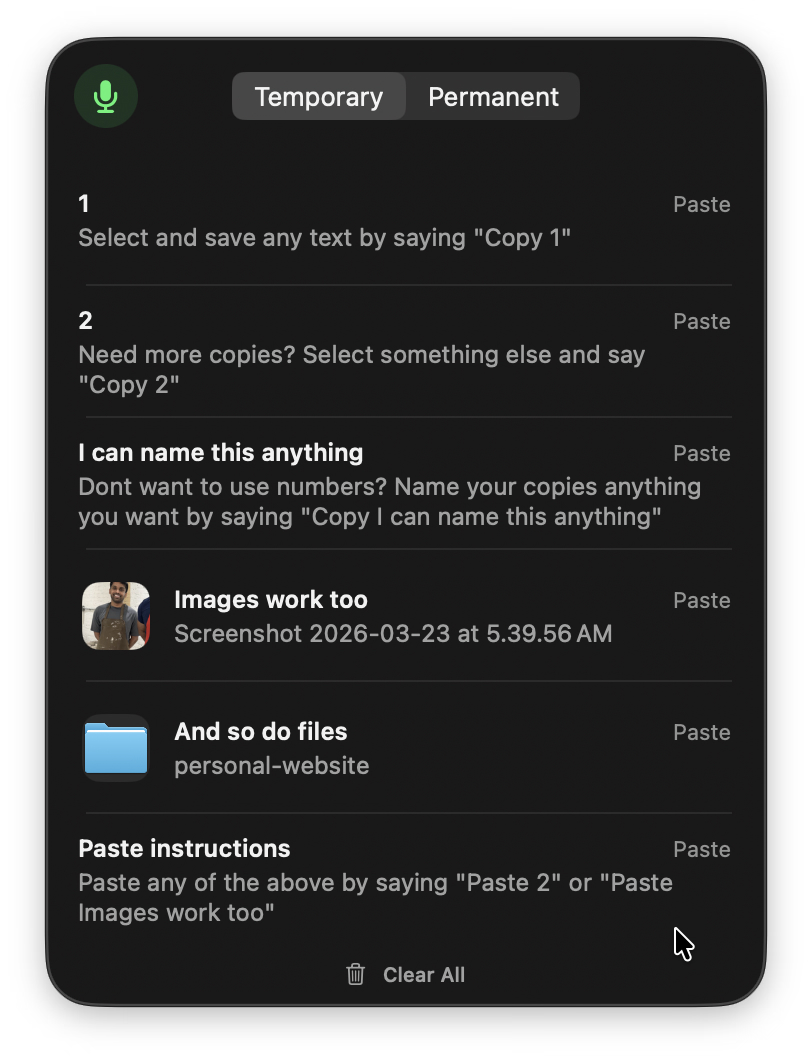
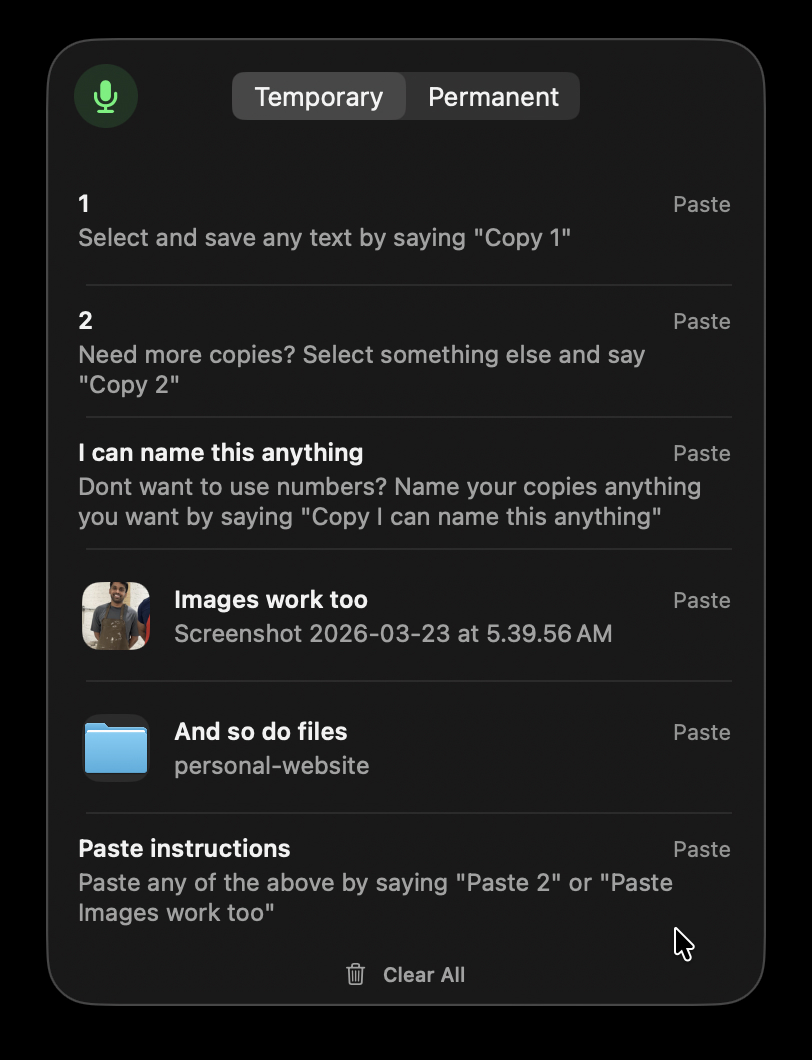
Improve project image sizing and rendering

Changed region(s): [[0.0, 0.0, 1.0, 1.0]]

diff --git a/components/project-card-section.tsx b/components/project-card-section.tsx
@@ -13,7 +13,7 @@ import {
   useSpring,
   useTransform,
 } from "motion/react";
-import { useEffect, useRef } from "react";
+import { type CSSProperties, useEffect, useRef } from "react";
 
 import {
   getSectionTimelineAttributes,
@@ -24,6 +24,45 @@ import type { SectionDefinition } from "@/config/sections";
 import { useParticleObstacle } from "@/hooks/use-particle-obstacle";
 import type { SceneTimeline } from "@/lib/scene-types";
 const PROJECT_ACTION_ORB_SIZE = 64;
+
+type ProjectImageSizingStyle = CSSProperties & {
+  "--project-image-aspect-ratio": string;
+  "--project-image-width-wide": string;
+  "--project-image-width-desktop": string;
+  "--project-image-width-tablet": string;
+  "--project-image-width-medium": string;
+  "--project-image-width-mobile": string;
+  "--project-image-width-compact": string;
+};
+
+function formatLength(value: number, unit: "rem" | "svh") {
+  return `${Number(value.toFixed(5))}${unit}`;
+}
+
+function createProjectImageSizingStyle(
+  width: number,
+  height: number,
+): ProjectImageSizingStyle {
+  const aspectRatio = width / height;
+  const widthForHeightCap = (
+    maxWidthRem: number,
+    viewportHeight: number,
+    maxHeightRem: number,
+  ) =>
+    `min(${maxWidthRem}rem, ${formatLength(viewportHeight * aspectRatio, "svh")}, ${formatLength(maxHeightRem * aspectRatio, "rem")})`;
+  const widthForDesktopHeightCap = (maxWidthRem: number) =>
+    `min(${maxWidthRem}rem, ${formatLength(70 * aspectRatio, "svh")}, calc(${formatLength(100 * aspectRatio, "svh")} - ${formatLength(9 * aspectRatio, "rem")}))`;
+
+  return {
+    "--project-image-aspect-ratio": `${width} / ${height}`,
+    "--project-image-width-wide": widthForDesktopHeightCap(36),
+    "--project-image-width-desktop": widthForDesktopHeightCap(31),
+    "--project-image-width-tablet": widthForHeightCap(40, 22, 14),
+    "--project-image-width-medium": widthForHeightCap(34, 24, 13),
+    "--project-image-width-mobile": widthForHeightCap(24, 20, 10),
+    "--project-image-width-compact": widthForHeightCap(24, 18, 7.5),
+  };
+}
 
 function ProjectActionOrb({
   state,
@@ -236,6 +275,10 @@ export function ProjectCardSection({
   const borderColor = useMotionTemplate`rgba(var(--project-card-border-rgb), ${borderAlpha})`;
   const cardShadow = useMotionTemplate`0 30px 90px rgba(var(--project-card-shadow-rgb), 0.52), 0 0 48px rgba(var(--project-card-glow-rgb), ${glowAlpha})`;
   const titleId = `${project.slug}-title`;
+  const imageSizingStyle = createProjectImageSizingStyle(
+    project.imageSrc.width,
+    project.imageSrc.height,
+  );
   useParticleObstacle(project.slug, cardRef, focus);
 
   return (
@@ -252,13 +295,11 @@ export function ProjectCardSection({
           className="panel project-card"
           style={{ scale, y, borderColor, boxShadow: cardShadow }}
         >
-          <div className="project-card__media">
+          <div className="project-card__media" style={imageSizingStyle}>
             <motion.div className="project-card__media-inner" style={{ scale: mediaScale }}>
               <Image
                 src={project.imageSrc}
                 alt={project.imageAlt}
-                width={project.imageWidth}
-                height={project.imageHeight}
                 className="project-card__image"
                 loading="eager"
                 sizes="(max-width: 640px) calc(100vw - 3rem), (max-width: 1280px) min(82vw, 40rem), 34rem"

diff --git a/config/portfolio.ts b/config/portfolio.ts
@@ -1,4 +1,11 @@
+import type { StaticImageData } from "next/image";
+
 import type { ProjectFieldPresetId } from "@/lib/project-field-presets";
+import airInkImage from "@/public/projects/air-ink.png";
+import ctrlSayImage from "@/public/projects/ctrl-say.png";
+import resumeLoomrImage from "@/public/projects/resumeloomr-v2.png";
+import text2SpeechImage from "@/public/projects/text2speech.png";
+import thesisTraceImage from "@/public/projects/thesistrace.png";
 
 type SiteConfig = {
   name: string;
@@ -88,10 +95,8 @@ export type ProjectEntry = {
     body: string;
   }[];
   technologies: readonly string[];
-  imageSrc: string;
+  imageSrc: StaticImageData;
   imageAlt: string;
-  imageWidth: number;
-  imageHeight: number;
   href?: string;
   linkLabel?: string;
   githubHref?: string;
@@ -127,11 +132,9 @@ export const projects = [
       "SwiftData",
       "Core Animation",
     ],
-    imageSrc: "/projects/ctrl-say.png",
+    imageSrc: ctrlSayImage,
     imageAlt:
       "Ctrl-Say floating clipboard showing numbered and named voice-controlled slots for text, an image, and files on macOS.",
-    imageWidth: 812,
-    imageHeight: 1060,
     githubHref: "https://github.com/anuragmaganti/Ctrl-Say",
     particlePreset: "torsion-column",
   },
@@ -163,11 +166,9 @@ export const projects = [
       "OpenAI",
       "Zod",
     ],
-    imageSrc: "/projects/thesistrace.png",
+    imageSrc: thesisTraceImage,
     imageAlt:
       "ThesisTrace Grid Infrastructure workspace showing recent developments, market coverage, AI research actions, and a market map.",
-    imageWidth: 3146,
-    imageHeight: 1954,
     href: "https://thesistrace.vercel.app/",
     linkLabel: "Visit Website",
     githubHref: "https://github.com/anuragmaganti/thesistrace",
@@ -200,11 +201,9 @@ export const projects = [
       "Web Workers",
       "Canvas API",
     ],
-    imageSrc: "/projects/air-ink.png",
+    imageSrc: airInkImage,
     imageAlt:
       "Air Ink signature studio showing its camera preview, gesture guidance, drawing stage, and download controls.",
-    imageWidth: 2394,
-    imageHeight: 1424,
     href: "https://webcamsign.com",
     linkLabel: "Visit Website",
     githubHref: "https://github.com/anuragmaganti/air-ink",
@@ -237,11 +236,9 @@ export const projects = [
       "Vercel API Routes",
       "Gemini API",
     ],
-    imageSrc: "/projects/resumeloomr-v2.png",
+    imageSrc: resumeLoomrImage,
     imageAlt:
       "ResumeLoomr interface showing a resume editor, section navigation, and live printable resume preview.",
-    imageWidth: 2934,
-    imageHeight: 1750,
     href: "https://resumeloomr.com/",
     linkLabel: "Visit Website",
     githubHref: "https://github.com/anuragmaganti/ResumeLoomr",
@@ -275,11 +272,9 @@ export const projects = [
       "Chatterbox TTS",
       "AWS S3",
     ],
-    imageSrc: "/projects/text2speech.png",
+    imageSrc: text2SpeechImage,
     imageAlt:
       "Text2Speech dashboard showing account statistics, generation shortcuts, recent audio projects, and available credits.",
-    imageWidth: 2152,
-    imageHeight: 1952,
     href: "https://text2speech.dev",
     linkLabel: "Visit Website",
     githubHref: "https://github.com/anuragmaganti/text-to-speech",

diff --git a/styles/responsive.css b/styles/responsive.css
@@ -16,21 +16,23 @@
   }
 
   .project-card__media {
-    width: fit-content;
-    max-width: 100%;
+    --project-image-width: var(--project-image-width-tablet);
+
+    width: var(--project-image-width);
+    max-width: none;
     max-height: min(22svh, 14rem);
     justify-self: center;
   }
 
   .project-card__media-inner {
-    width: fit-content;
-    max-width: 100%;
+    width: 100%;
+    max-width: none;
   }
 
   .project-card__image {
-    width: auto;
-    max-width: min(100%, 40rem);
-    max-height: min(22svh, 14rem);
+    width: 100%;
+    max-width: none;
+    max-height: none;
   }
 
   .project-card__copy {
@@ -162,9 +164,8 @@
     padding-block: clamp(1.15rem, 2.2vh, 1.6rem);
   }
 
-  .project-card__image {
-    max-width: min(100%, 34rem);
-    max-height: min(24svh, 13rem);
+  .project-card__media {
+    --project-image-width: var(--project-image-width-medium);
   }
 
   .project-card__copy {
@@ -292,9 +293,8 @@
     padding: 0.85rem 0.8rem;
   }
 
-  .project-card__image {
-    max-width: min(100%, 24rem);
-    max-height: min(20svh, 10rem);
+  .project-card__media {
+    --project-image-width: var(--project-image-width-mobile);
   }
 
   .intro-stage {
@@ -394,8 +394,8 @@
     gap: 0.5rem;
   }
 
-  .project-card__image {
-    max-height: min(18svh, 7.5rem);
+  .project-card__media {
+    --project-image-width: var(--project-image-width-compact);
   }
 
   .project-card__copy {

diff --git a/styles/project-cards.css b/styles/project-cards.css
@@ -11,14 +11,17 @@
 }
 
 .project-card__media {
+  --project-image-width: var(--project-image-width-wide);
+
   position: relative;
+  z-index: 1;
   isolation: isolate;
   display: flex;
   align-items: center;
   justify-content: center;
   align-self: center;
-  width: fit-content;
-  max-width: 36rem;
+  width: var(--project-image-width);
+  max-width: none;
   min-height: 0;
   overflow: hidden;
   border-radius: calc(var(--radius-lg) - 0.2rem);
@@ -28,8 +31,8 @@
 
 .project-card__media-inner {
   position: relative;
-  width: fit-content;
-  max-width: 100%;
+  width: 100%;
+  max-width: none;
   display: flex;
   align-items: center;
   justify-content: center;
@@ -38,10 +41,13 @@
 .project-card__image {
   display: block;
   opacity: 1;
-  width: auto;
-  max-width: 100%;
+  filter: none;
+  mix-blend-mode: normal;
+  width: 100%;
+  max-width: none;
   height: auto;
-  max-height: min(70svh, calc(100svh - 9rem));
+  max-height: none;
+  aspect-ratio: var(--project-image-aspect-ratio);
   object-fit: contain;
   object-position: center;
 }
@@ -119,7 +125,7 @@
   }
 
   .project-card__media {
-    max-width: 31rem;
+    --project-image-width: var(--project-image-width-desktop);
   }
 
   .project-card h2 {

diff --git a/styles/foundation.css b/styles/foundation.css
@@ -41,9 +41,7 @@
   --outro-label: rgba(245, 247, 251, 0.92);
   --outro-label-hover: rgba(236, 244, 255, 1);
   --tap-highlight: rgba(255, 255, 255, 0.08);
-  --project-media-background:
-    linear-gradient(135deg, rgba(255, 255, 255, 0.08), transparent 44%),
-    rgba(255, 255, 255, 0.02);
+  --project-media-background: #050505;
   --project-media-border: rgba(255, 255, 255, 0.045);
   --project-summary: rgba(245, 247, 251, 0.88);
   --panel-background:
@@ -131,9 +129,7 @@
   --outro-label: rgba(17, 19, 24, 0.9);
   --outro-label-hover: rgba(0, 0, 0, 1);
   --tap-highlight: rgba(17, 19, 24, 0.08);
-  --project-media-background:
-    linear-gradient(135deg, rgba(255, 255, 255, 0.48), transparent 44%),
-    rgba(255, 255, 255, 0.16);
+  --project-media-background: #fff;
   --project-media-border: rgba(17, 19, 24, 0.055);
   --project-summary: rgba(17, 19, 24, 0.84);
   --panel-background:
